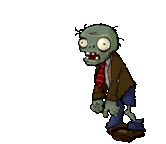
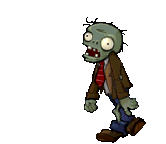
feat : zombie gif work

Changed region(s): [[0.4518, 0.1111, 0.9036, 1.0]]

diff --git a/zombie.js b/zombie.js
@@ -19,6 +19,12 @@ export class stdZombie {
 
         this.slow = 1;
         this.timer_HP = 0;
+
+        this.img = new Array();
+        for (let i = 0; i < 7; i++) {
+            this.img.push(new Image());
+        }
+        this.frame = 0;
     }
     /*
     Author : 윤찬규
@@ -41,9 +47,9 @@ export class stdZombie {
     */
     draw(ctx) {
         ctx.beginPath();
-        ctx.rect(this.x - this.width / 2, this.y - this.height / 2, this.width, this.height);
-        ctx.fillStyle = this.color;
-        ctx.fill();
+        const fixW = Math.floor(this.img[this.frame].width * 0.8);
+        const fixH = Math.floor(this.img[this.frame].height * 0.8);
+        ctx.drawImage(this.img[this.frame], this.x - fixW / 2, this.y - fixH / 2, fixW, fixH);
         ctx.closePath();
     }
 
@@ -82,18 +88,39 @@ export class stdZombie {
     isEnd() {
         return this.x <= 125;
     }
+    /*
+    Author : 윤찬규
+    Date : 2023-05-23
+    Description : gif 프레임을 넘깁니다.
+    */
+    nextFrame() {
+        this.frame = (this.frame + 1) % 7;
+    }
 }
 
 export class Zombie extends stdZombie {
     constructor(x, y, width, height, speed, hp, dmg) {
         super(x, y, width, height, speed, hp, dmg);
+        this.#setImage();
+    }
+
+    #setImage() {
+        for (let i = 0; i < 7; i++) {
+            this.img[i].src = "./images/Zombie/Zombie/Zombie_" + i + ".png";
+        }
     }
 }
 
 export class ConeheadZombie extends stdZombie {
     constructor(x, y, width, height, speed, hp, dmg) {
         super(x, y, width, height, speed, hp, dmg);
-        this.color = "blue";
+        this.#setImage();
+    }
+
+    #setImage() {
+        for (let i = 0; i < 7; i++) {
+            this.img[i].src = "./images/Zombie/ConeheadZombie/ConeheadZombie_" + i + ".png";
+        }
     }
 }
 
@@ -101,7 +128,13 @@ export class ConeheadZombie extends stdZombie {
 export class BucketheadZombie extends stdZombie {
     constructor(x, y, width, height, speed, hp, dmg) {
         super(x, y, width, height, speed, hp, dmg);
-        this.color = "red";
+        this.#setImage();
+    }
+
+    #setImage() {
+        for (let i = 0; i < 7; i++) {
+            this.img[i].src = "./images/Zombie/BucketheadZombie/BucketheadZombie_" + i + ".png";
+        }
     }
 }
 

diff --git a/plant.js b/plant.js
@@ -20,6 +20,12 @@ export class Plant {
         this.frame = 0;
     }
 
+    draw(ctx) {
+        ctx.beginPath();
+        ctx.drawImage(this.img[this.frame], this.x - this.img[this.frame].width / 2, this.y - this.img[this.frame].height / 2);
+        ctx.closePath();
+    }
+
     attack() {
         
     }
@@ -32,6 +38,11 @@ export class Plant {
         return this.hp > 0;
     }
 
+    /*
+    Author : 윤찬규
+    Date : 2023-05-23
+    Description : gif 프레임을 넘깁니다.
+    */
     nextFrame() {
         this.frame = (this.frame + 1) % 7;
     }
@@ -48,12 +59,6 @@ export class Peashooter extends Plant {
             this.img[i].src = "./images/Plants/peashooter/peashooter_" + i + ".png";
         }
     }
-
-    draw(ctx) {
-        ctx.beginPath();
-        ctx.drawImage(this.img[this.frame], this.x - this.img[this.frame].width / 2, this.y - this.img[this.frame].height / 2);
-        ctx.closePath();
-    }
 }
 
 export class Snowpea extends Plant {
@@ -67,12 +72,6 @@ export class Snowpea extends Plant {
             this.img[i].src = "./images/Plants/snowpea/snowpea_" + i + ".png";
         }
     }
-
-    draw(ctx) {
-        ctx.beginPath();
-        ctx.drawImage(this.img[this.frame], this.x - this.img[this.frame].width / 2, this.y - this.img[this.frame].height / 2);
-        ctx.closePath();
-    }
 }
 
 export class Wallnut extends Plant {
@@ -85,11 +84,5 @@ export class Wallnut extends Plant {
         for (let i = 0; i < 7; i++) {
             this.img[i].src = "./images/Plants/wallnut/wallnut_" + i + ".png";
         }
-    }
-
-    draw(ctx) {
-        ctx.beginPath();
-        ctx.drawImage(this.img[this.frame], this.x - this.img[this.frame].width / 2, this.y - this.img[this.frame].height / 2);
-        ctx.closePath();
     }
 }

diff --git a/gameManager.js b/gameManager.js
@@ -103,6 +103,13 @@ export class gameManager {
                     }
                 }
             }
+            for (let i = 0; i < 5; i++) {
+                for (let j = 0; j < 100; j++) {
+                    if(this.zombies[i][j].hp > 0) {
+                        this.zombies[i][j].nextFrame();
+                    }
+                }
+            }
         }
     }
 
